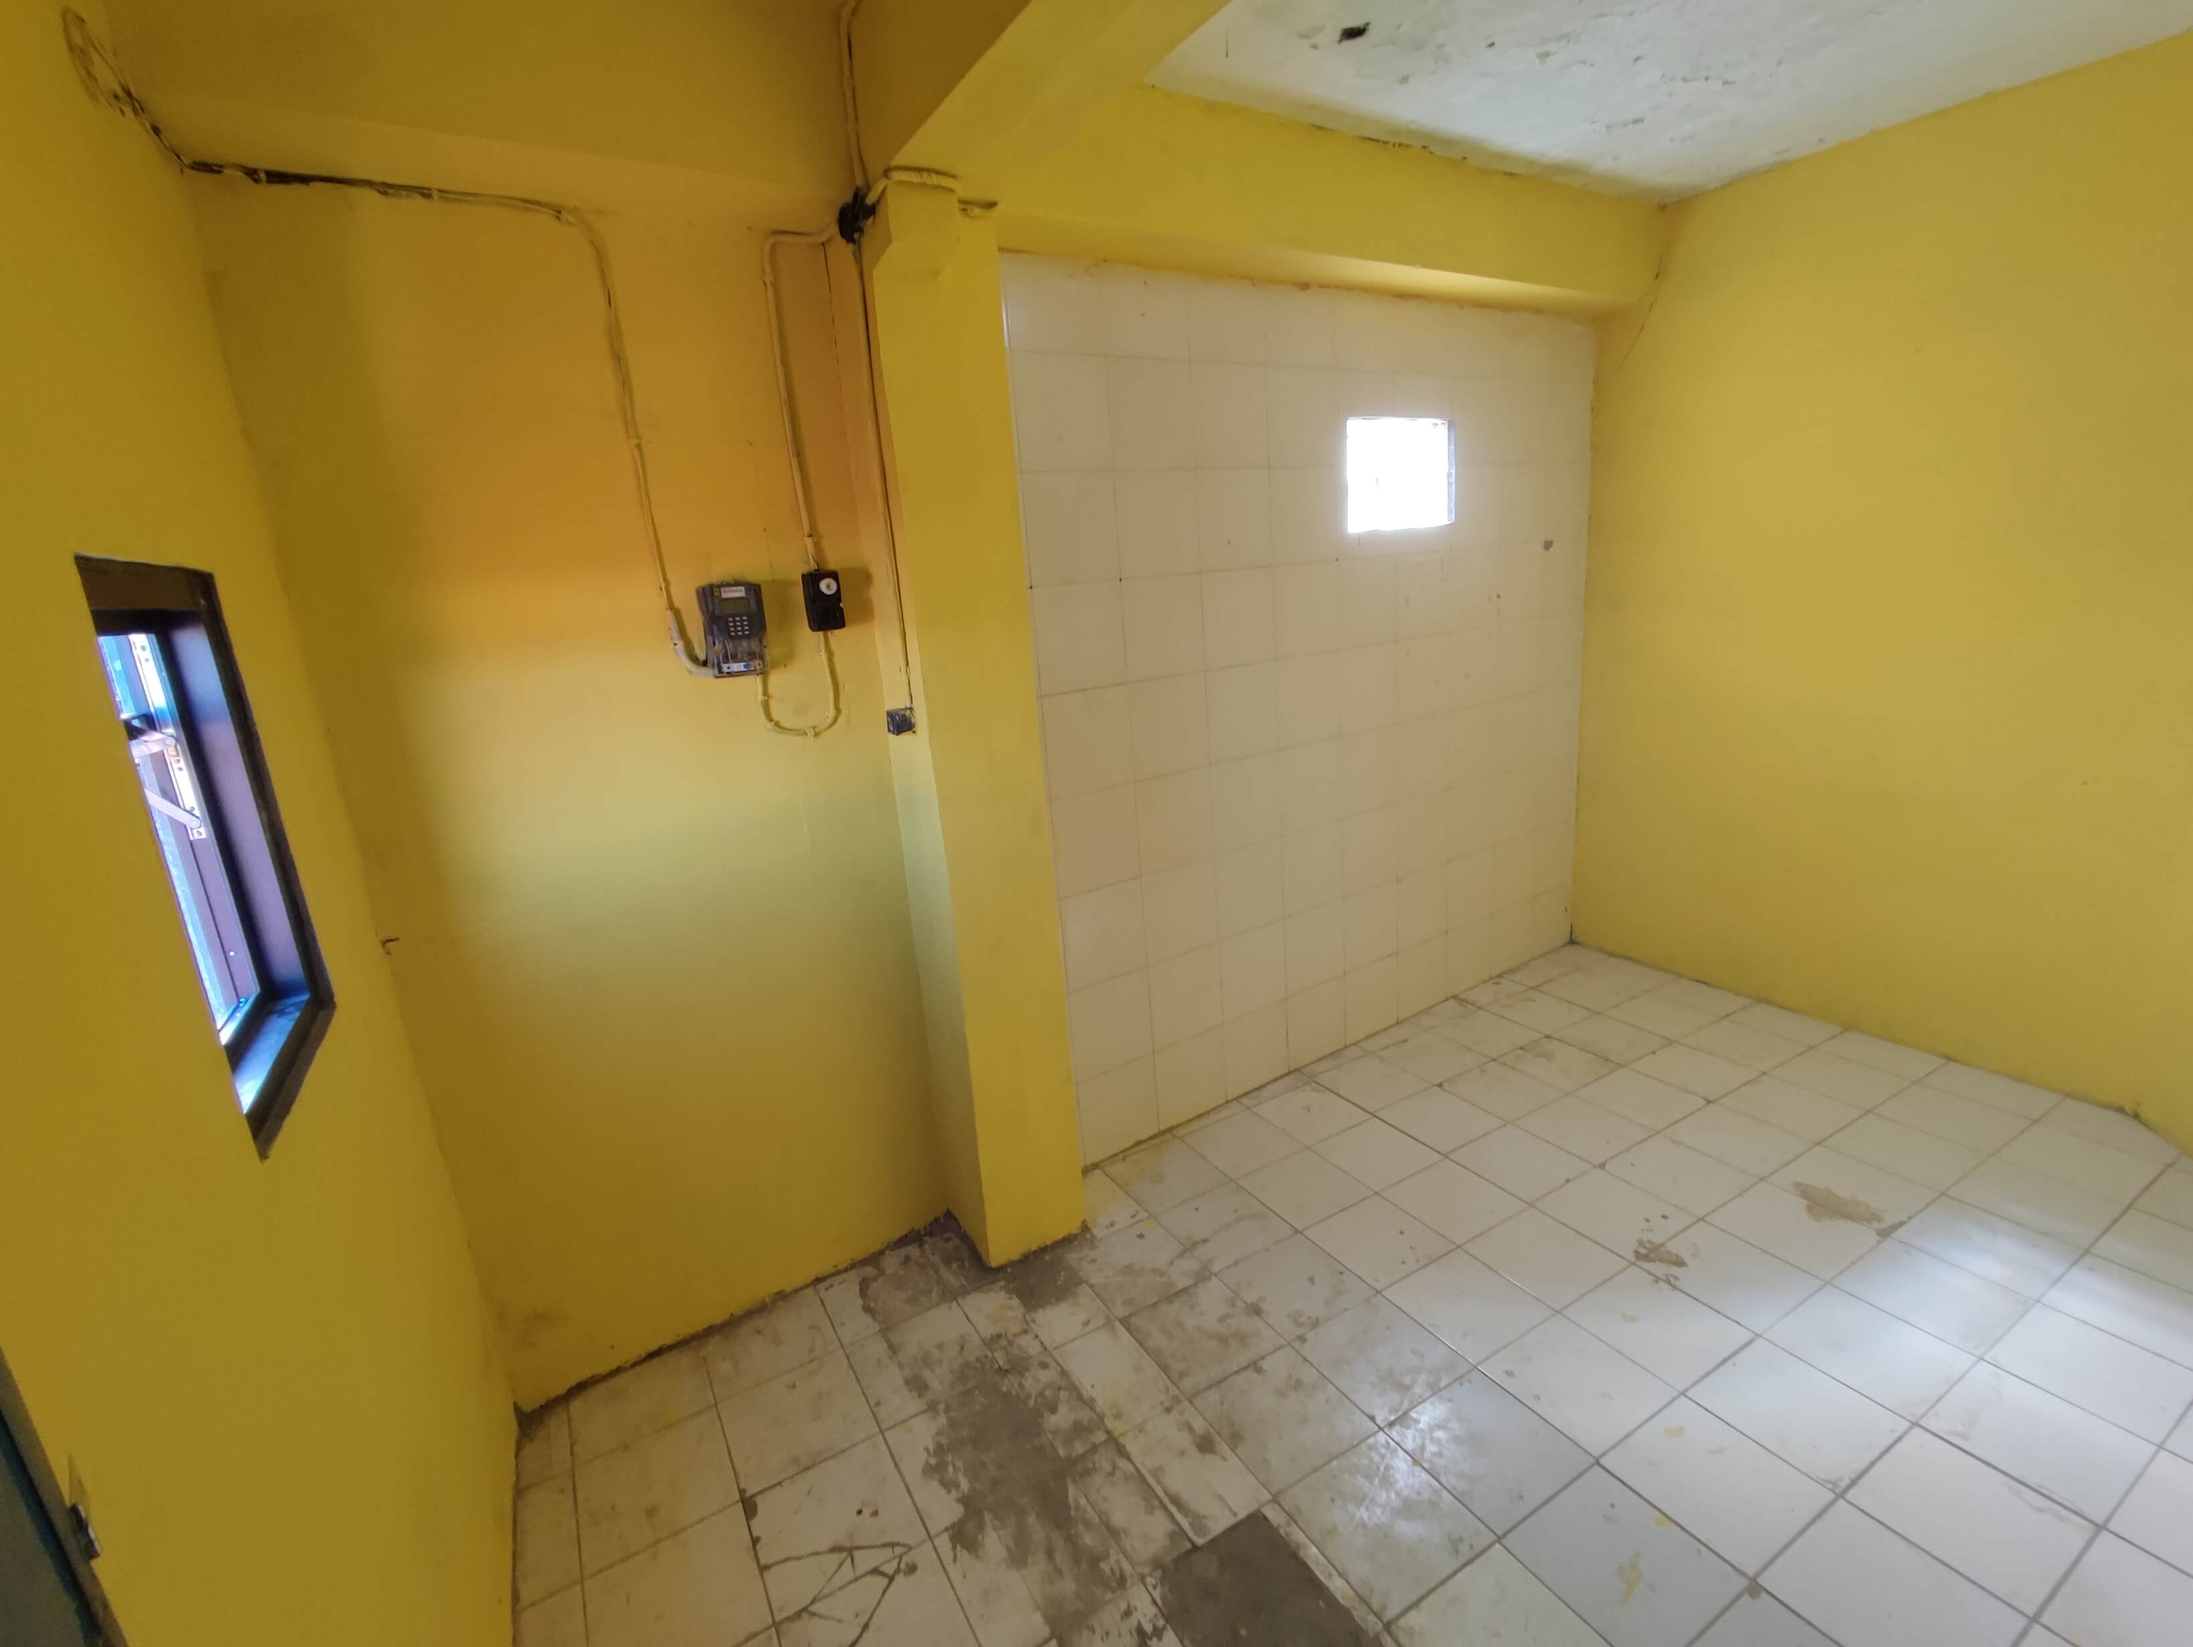
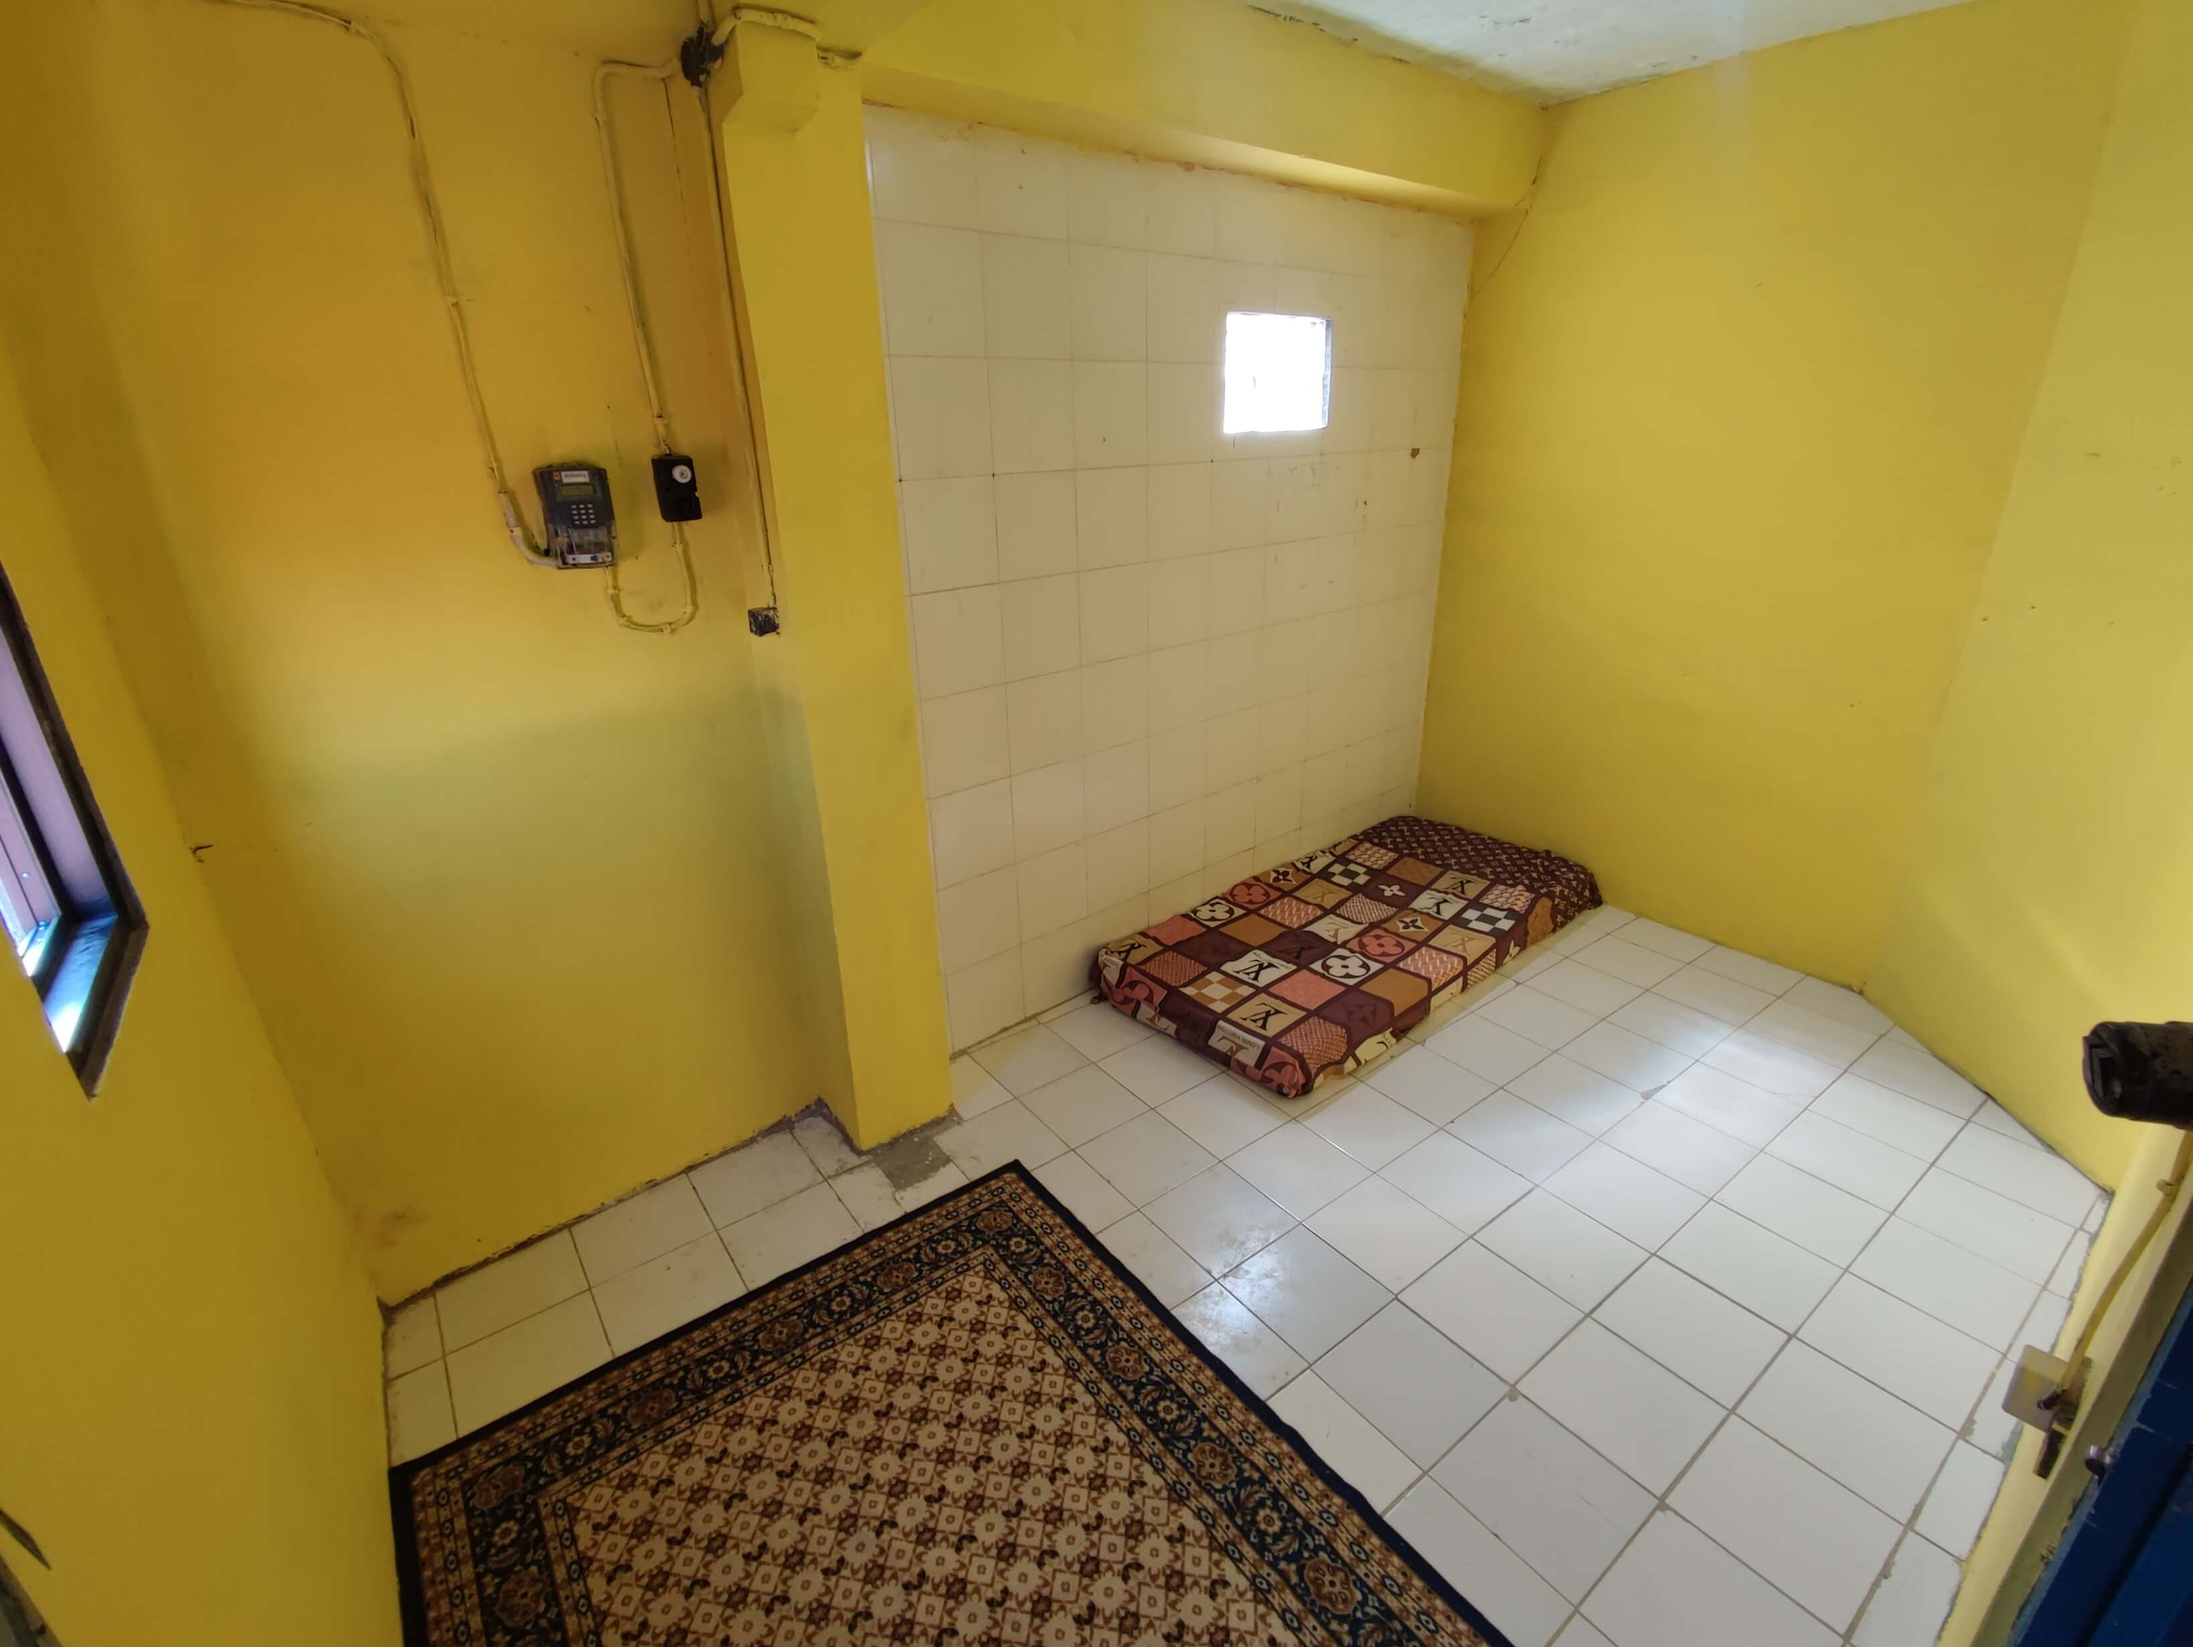
update B1, add B6

diff --git a/B/1.html b/B/1.html
@@ -8,8 +8,9 @@
     <link rel="stylesheet" type="text/css" href="../css/style.css">
     <link rel="stylesheet" href="https://cdnjs.cloudflare.com/ajax/libs/font-awesome/5.15.4/css/all.min.css">
     <meta property="og:title" content="Kamar B1">
-    <!-- <meta property="og:description" content="Deskripsi Kamar B1"> -->
-    <meta property="og:image" content="https://koskepuh.category.id/B/assets/1_front.jpg">
+    <meta property="og:description" content="Fasilitas: Kasur 90x200cm, Karpet 150x200cm, Listrik Token 1300VA, Kamar Mandi Luar">
+    <meta property="og:image" content="https://koskepuh.category.id/B/assets/1_entry2.jpg">
+    <meta property="og:image" content="https://koskepuh.category.id/B/assets/1_middle.jpg">
     <meta property="og:image" content="https://koskepuh.category.id/B/assets/1_back.jpg">
     <meta property="og:image" content="https://koskepuh.category.id/B/assets/1_entry.jpg">
     <meta property="og:url" content="https://koskepuh.category.id/">
@@ -21,15 +22,18 @@
     <p>
         Fasilitas :
         <ul>
-            <li>Kamar Mandi Luar</li>
+            <li>Kasur Busa Ukuran 90x200cm</li>
+            <li>Karpet 150x200cm</li>
             <li>Listrik Token 1300VA</li>
+            <li>Kamar Mandi Luar</li>
         </ul>
         Ukuran Kamar : ± 2,2 x 4,2 meter
         <br><br>
-        Terakhir diperbarui : 27 Juli 2023
+        Terakhir diperbarui : 23 Agustus 2023
     </p>
     <img src="./assets/1_entry.jpg" width="100%" height="auto" max-width="800px">
-    <img src="./assets/1_front.jpg" width="100%" height="auto" max-width="800px">
+    <img src="./assets/1_middle.jpg" width="100%" height="auto" max-width="800px">
+    <img src="./assets/1_entry2.jpg" width="100%" height="auto" max-width="800px">
     <img src="./assets/1_back.jpg" width="100%" height="auto" max-width="800px">
     <div class="whatsapp-float">
         <a href="https://wa.me/628886892062?text=Apakah%20Kamar%20B1%20masih%20kosong%3F" target="_blank">

diff --git a/B/6.html b/B/6.html
@@ -1,0 +1,43 @@
+<!DOCTYPE html>
+<html lang="en">
+
+<head>
+    <title>Kamar B6</title>
+    <meta charset="utf-8">
+    <meta name="viewport" content="width=device-width, initial-scale=1">
+    <link rel="stylesheet" type="text/css" href="../css/style.css">
+    <link rel="stylesheet" href="https://cdnjs.cloudflare.com/ajax/libs/font-awesome/5.15.4/css/all.min.css">
+    <meta property="og:title" content="Kamar B6">
+    <meta property="og:description" content="Fasilitas: Lemari Kayu, Meja Belajar, Listrik Token 1300VA, Kamar Mandi Luar">
+    <meta property="og:image" content="https://koskepuh.category.id/B/assets/6_entry2.jpg">
+    <meta property="og:image" content="https://koskepuh.category.id/B/assets/6_back.jpg">
+    <meta property="og:image" content="https://koskepuh.category.id/B/assets/6_entry.jpg">
+    <meta property="og:url" content="https://koskepuh.category.id/">
+    <meta property="og:type" content="website">
+</head>
+
+<body>
+    <h3>Kamar B6</h3>
+    <p>
+        Fasilitas :
+        <ul>
+            <li>Lemari Kayu</li>
+            <li>Meja Belajar</li>
+            <li>Listrik Token 1300VA</li>
+            <li>Kamar Mandi Luar</li>
+        </ul>
+        Ukuran Kamar : ± 2,7 x 4 meter
+        <br><br>
+        Terakhir diperbarui : 23 Agustus 2023
+    </p>
+    <img src="./assets/6_entry.jpg" width="100%" height="auto" max-width="800px">
+    <img src="./assets/6_entry2.jpg" width="100%" height="auto" max-width="800px">
+    <img src="./assets/6_back.jpg" width="100%" height="auto" max-width="800px">
+    <div class="whatsapp-float">
+        <a href="https://wa.me/628886892062?text=Apakah%20Kamar%20B6%20masih%20kosong%3F" target="_blank">
+            <i class="fab fa-whatsapp"></i>
+        </a>
+    </div>
+</body>
+
+</html>
